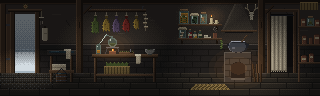
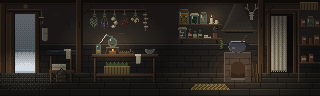
Curandeira: os maços de ervas desenhados à mão (protótipo)
Os cinco maços eram o mesmo saco simétrico em cores diferentes, com o nó em bloco
("pinhatas"). Agora cada planta tem a sua silhueta, numa grade à mão: a sálvia em leque,
a lavanda em hastes com a espiga na ponta, a réstia de alho, o raminho de bagas
vermelhas com duas folhas e a camomila. Todos com o barbante descendo da vara, a laçada e
as voltas da amarração, em cores de planta seca, com comprimentos e espaços diferentes.
Só no protótipo; nada no jogo.

Changed region(s): [[0.2812, 0.125, 0.4375, 0.3438]]

diff --git a/ferramentas/prototipos/curandeira/desenho.py b/ferramentas/prototipos/curandeira/desenho.py
@@ -55,6 +55,15 @@ C = {
     "ocre": "#7a6228", "ocreLuz": "#9e8236", "ocreEsc": "#4e3e1a",
     "lilas": "#4e4058", "lilasLuz": "#6a5876", "lilasEsc": "#33293a",
     "palha": "#6e5a34", "palhaLuz": "#8e7646", "palhaEsc": "#45381f",
+    # os maços secando (as cores de planta seca: o verde acinzentado, o roxo apagado, o branco do alho, o vermelho da
+    # baga, o creme da flor)
+    "salvia": "#56604a", "salviaLuz": "#76825e", "salviaEsc": "#373d2e", "salviaTalo": "#4c4630",
+    "lavanda": "#5a4868", "lavandaLuz": "#7a6690", "lavandaEsc": "#3a2e46",
+    "lavandaHaste": "#55553a", "lavandaHasteEsc": "#3a3a26",
+    "alho": "#a89e88", "alhoLuz": "#cec6ae", "alhoEsc": "#6e6656",
+    "galho": "#4a3626", "folha": "#3a4628", "folhaLuz": "#566238",
+    "camomilaTalo": "#5e5c38", "flor": "#b4aa84", "florLuz": "#d4caa4", "florMiolo": "#b08a2e",
+    "barbanteLuz": "#8e826a",
     # o barro, o vidro e a pedra do almofariz
     "barro": "#6a4230", "barroLuz": "#8a5a3c", "barroEsc": "#43281c",
     "vidroVerde": "#2c4030", "vidroVerdeLuz": "#4a6a4e", "vidroEsc": "#1e2832", "vidroEscLuz": "#3a4e5e",
@@ -218,40 +227,120 @@ def pia(px):
 
 
 # ---------------------------------------------------------------- as ervas secando
-MACOS = [  # (x do barbante, cor, largura, comprimento)
-    (95, "erva", 7, 17), (106, "ocre", 6, 15), (116, "lilas", 6, 16), (126, "baga", 6, 15), (136, "ocre", 5, 13),
+# Cada maço desenhado à mão (um caractere por pixel), de cabeça para baixo como se seca: o barbante descendo da vara,
+# as voltas da amarração em volta dos talos juntos e, embaixo, o que se reconhece da planta. A leitura vem da
+# silhueta, não da cor: a sálvia em leque de folhas pontudas, a lavanda em hastes finas com a espiga na ponta, a
+# réstia de alho em cabeças redondas presas na trança de palha, o raminho de bagas em cachos de bolinhas com duas
+# folhas, a camomila em talos curtos com as flores miúdas embaixo. Comprimentos e espaços diferentes de propósito.
+# Comuns a todos: "=" o barbante, "+" a volta acesa da amarração.
+MACOS = [
+    (90, 12, {"t": "salviaTalo", "G": "salviaLuz", "g": "salvia", "d": "salviaEsc"}, [  # a sálvia
+        "....=....",
+        "....=....",
+        "...=+=...",
+        "...tdt...",
+        "...=+=...",
+        "..t.d.t..",
+        ".tG.d.gt.",
+        "GGg.dGgd.",
+        "Gg.Ggdgdd",
+        ".gGg.gGd.",
+        "GgG.Ggdd.",
+        "G.gGg.Gd.",
+        ".Gg.gGgdd",
+        "..G.Gg.d.",
+        "..g.g..d.",
+        "....g....",
+    ]),
+    (101, 12, {"t": "lavandaHaste", "T": "lavandaHasteEsc", "L": "lavandaLuz", "l": "lavanda", "k": "lavandaEsc"}, [
+        "...=...",  # a lavanda
+        "...=...",
+        "..=+=..",
+        "..tTt..",
+        "..=+=..",
+        "..tTt..",
+        ".t.T.t.",
+        ".t.t.t.",
+        "t..t.t.",
+        "t..t..t",
+        "L..t..t",
+        "l.Lt..L",
+        "k.lt..l",
+        "l.kL..k",
+        "k.ll..l",
+        "..kk..k",
+        "...l...",
+        "...k...",
+    ]),
+    (110, 12, {"p": "palha", "P": "palhaEsc", "A": "alhoLuz", "a": "alho", "d": "alhoEsc"}, [  # a réstia de alho
+        "....=....",
+        "....=....",
+        "...=+=...",
+        "....pP...",
+        "...pPp...",
+        "..aAp....",
+        ".aAAad...",
+        ".aAadd...",
+        "..ddpPp..",
+        "....pAa..",
+        "...pAAad.",
+        "....aadd.",
+        "...PpddP.",
+        "..aAPp...",
+        ".aAAad...",
+        "..add....",
+    ]),
+    (121, 12, {"w": "galho", "R": "bagaLuz", "r": "baga", "q": "bagaEsc", "F": "folhaLuz", "f": "folha"}, [
+        "...=....",  # o raminho de bagas
+        "...=....",
+        "..=+=...",
+        "..wqw...",
+        "...w....",
+        "..w.w...",
+        ".w..wF..",
+        ".w.f.wf.",
+        "RrfF.w..",
+        "rqf.Rrw.",
+        ".w..rqRr",
+        ".Rr..qrq",
+        "Rrq...q.",
+        ".qr.....",
+        "..q.....",
+    ]),
+    (131, 12, {"h": "camomilaTalo", "F": "florLuz", "f": "flor", "m": "florMiolo"}, [  # a camomila
+        "....=...",
+        "...=+=..",
+        "...hhh..",
+        "...=+=..",
+        "..h.h.h.",
+        ".h.h.h.h",
+        "fFh.hFf.",
+        "fmf.fmff",
+        ".f.fFh.m",
+        "...fmf.f",
+        "....f...",
+    ]),
 ]
 
 
 def ervas(px):
-    """A vara presa em dois ganchos na parede, e os maços de cabeça para baixo, amarrados num barbante: o talo junto, a
-    folhagem abrindo para baixo e a ponta solta. Verde, ocre e um lilás apagado."""
+    """A vara presa em dois ganchos na parede e os maços pendurados nela (MACOS)."""
     px(88, 9, 58, 3, "madeira")
     px(88, 9, 58, 1, "madeiraLuz")
     px(88, 11, 58, 1, "madeiraEsc")
     for xx in (90, 142):  # os ganchos
         px(xx, 6, 1, 4, "ferro")
         px(xx, 6, 2, 1, "ferro")
-    for x, cor, w, comp in MACOS:
-        px(x, 12, 1, 3, "linhoSombra")           # o barbante
-        px(x - 1, 15, 3, 3, cor + "Esc")         # o talo amarrado
-        px(x - 1, 15, 3, 1, "linhoSombra")       # a volta do barbante
-        fim = 18 + comp - 3
-        for k in range(comp - 3):
-            y = 18 + k
-            meia = min(w / 2, 0.5 + k * 0.5)     # estreito no nó, abrindo para baixo
-            a, b = round(x - meia), round(x + meia)
-            px(a, y, b - a + 1, 1, cor)
-            px(a, y, 1, 1, cor + "Luz")
-            px(b, y, 1, 1, cor + "Esc")
-            if k % 3 == 1 and k > 2:             # as folhas soltas na borda
-                px.p(a - 1, y, cor + "Luz")
-            if k % 4 == 2 and b - a > 2:          # os talos por dentro
-                px.p(x + (1 if k % 8 == 2 else -1), y, cor + "Esc")
-        a, b = round(x - w / 2), round(x + w / 2)
-        for xx in range(a, b + 1):               # a ponta irregular: as pontas das folhas em comprimentos diferentes
-            for d in range((xx * 7 + x) % 3):
-                px.p(xx, fim + d, cor if d == 0 else cor + "Esc")
+    for x0, y0, pal, linhas in MACOS:
+        pal = dict(pal, **{"=": "barbante", "+": "barbanteLuz"})
+        for dy, linha in enumerate(linhas):
+            for dx, ch in enumerate(linha):
+                if ch in pal:
+                    px.p(x0 + dx, y0 + dy, pal[ch])
+        # a laçada do barbante por cima da vara
+        xb = x0 + linhas[0].index("=")
+        px.p(xb, 10, "barbanteLuz")
+        px.p(xb, 11, "barbante")
 
 
 # ---------------------------------------------------------------- a bancada
